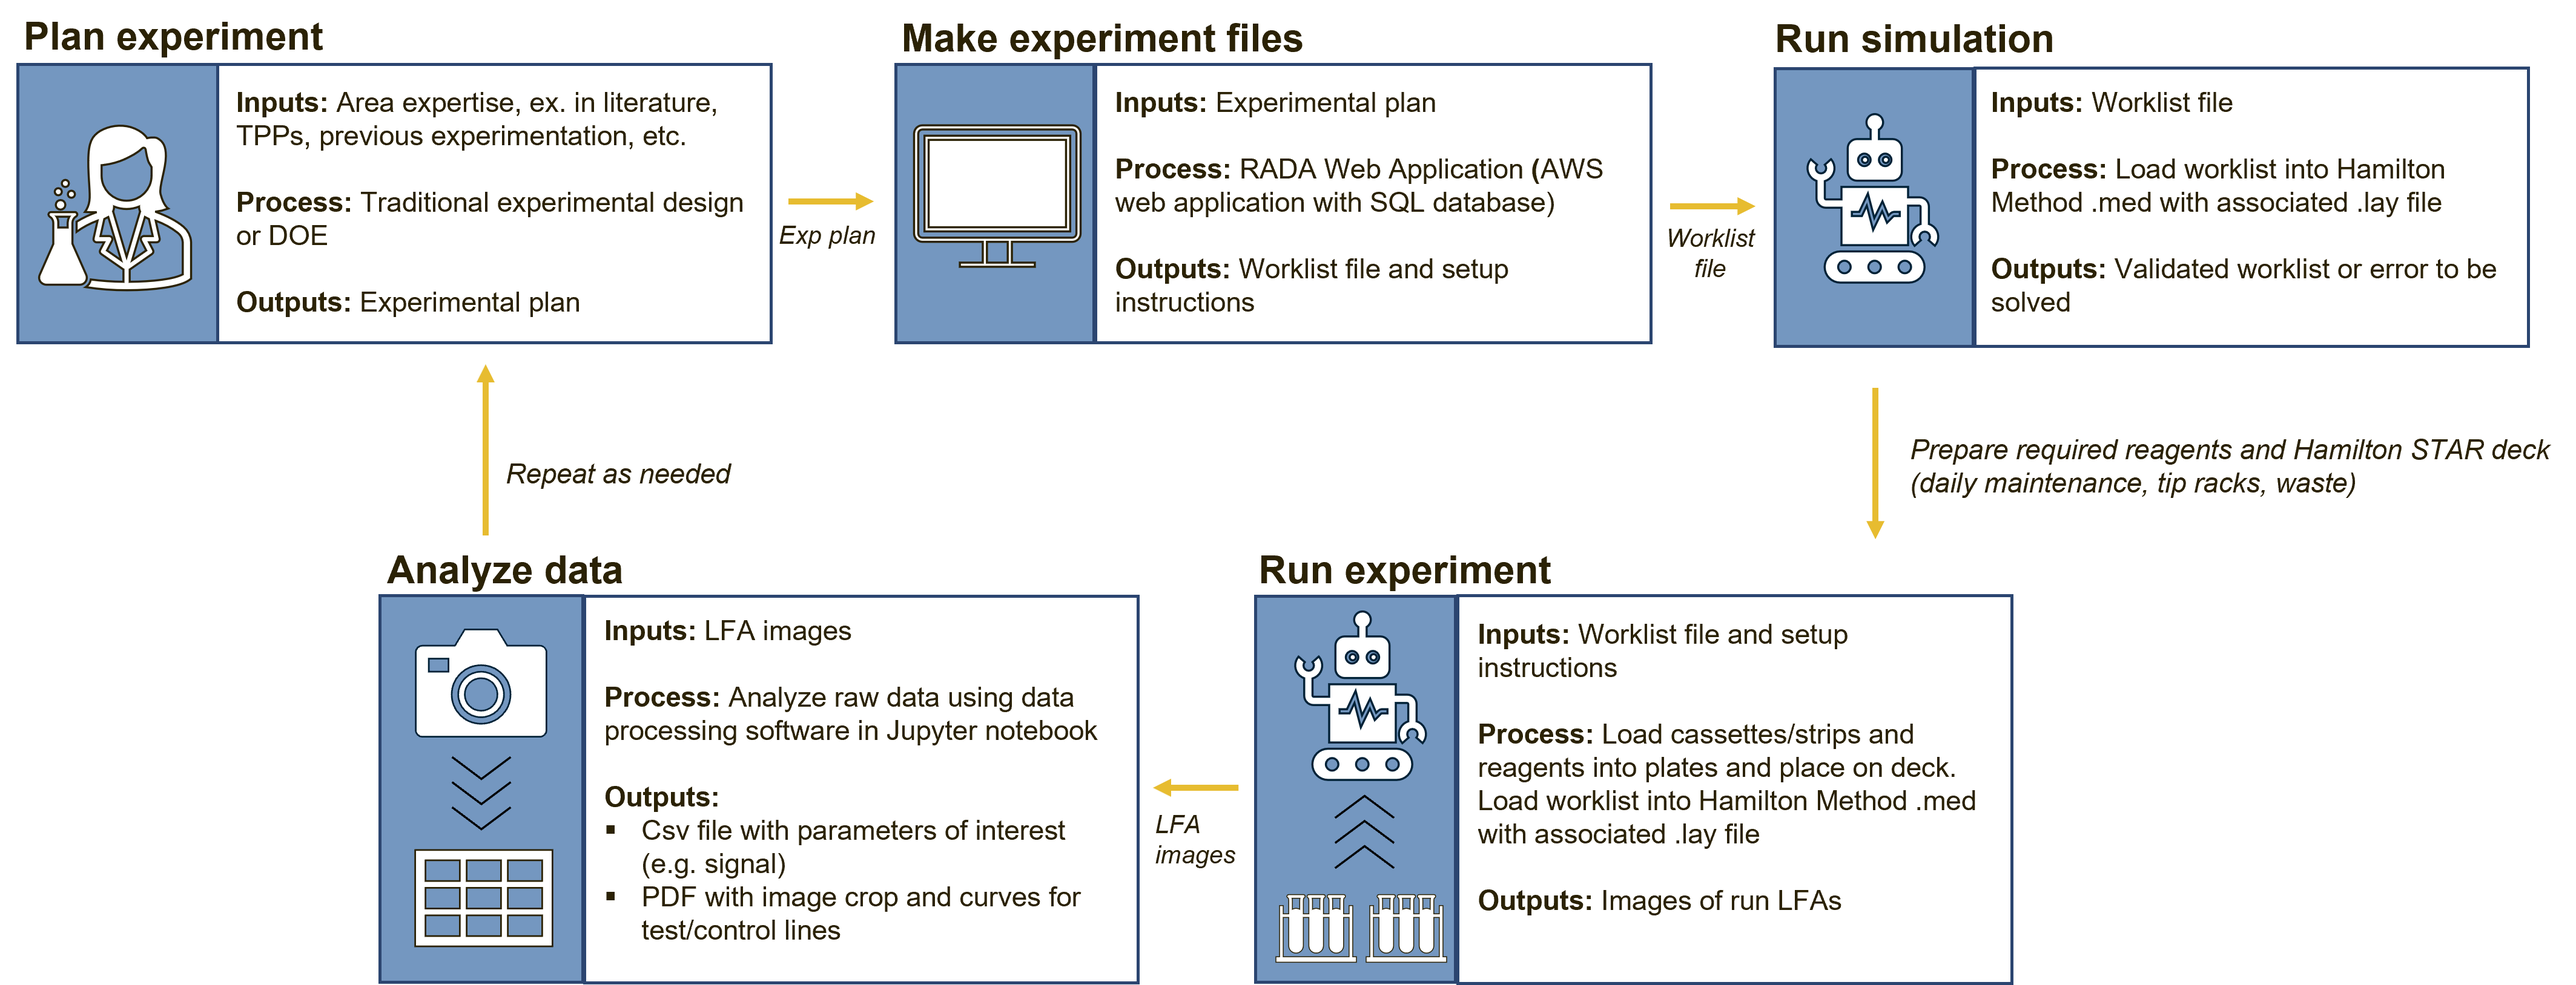
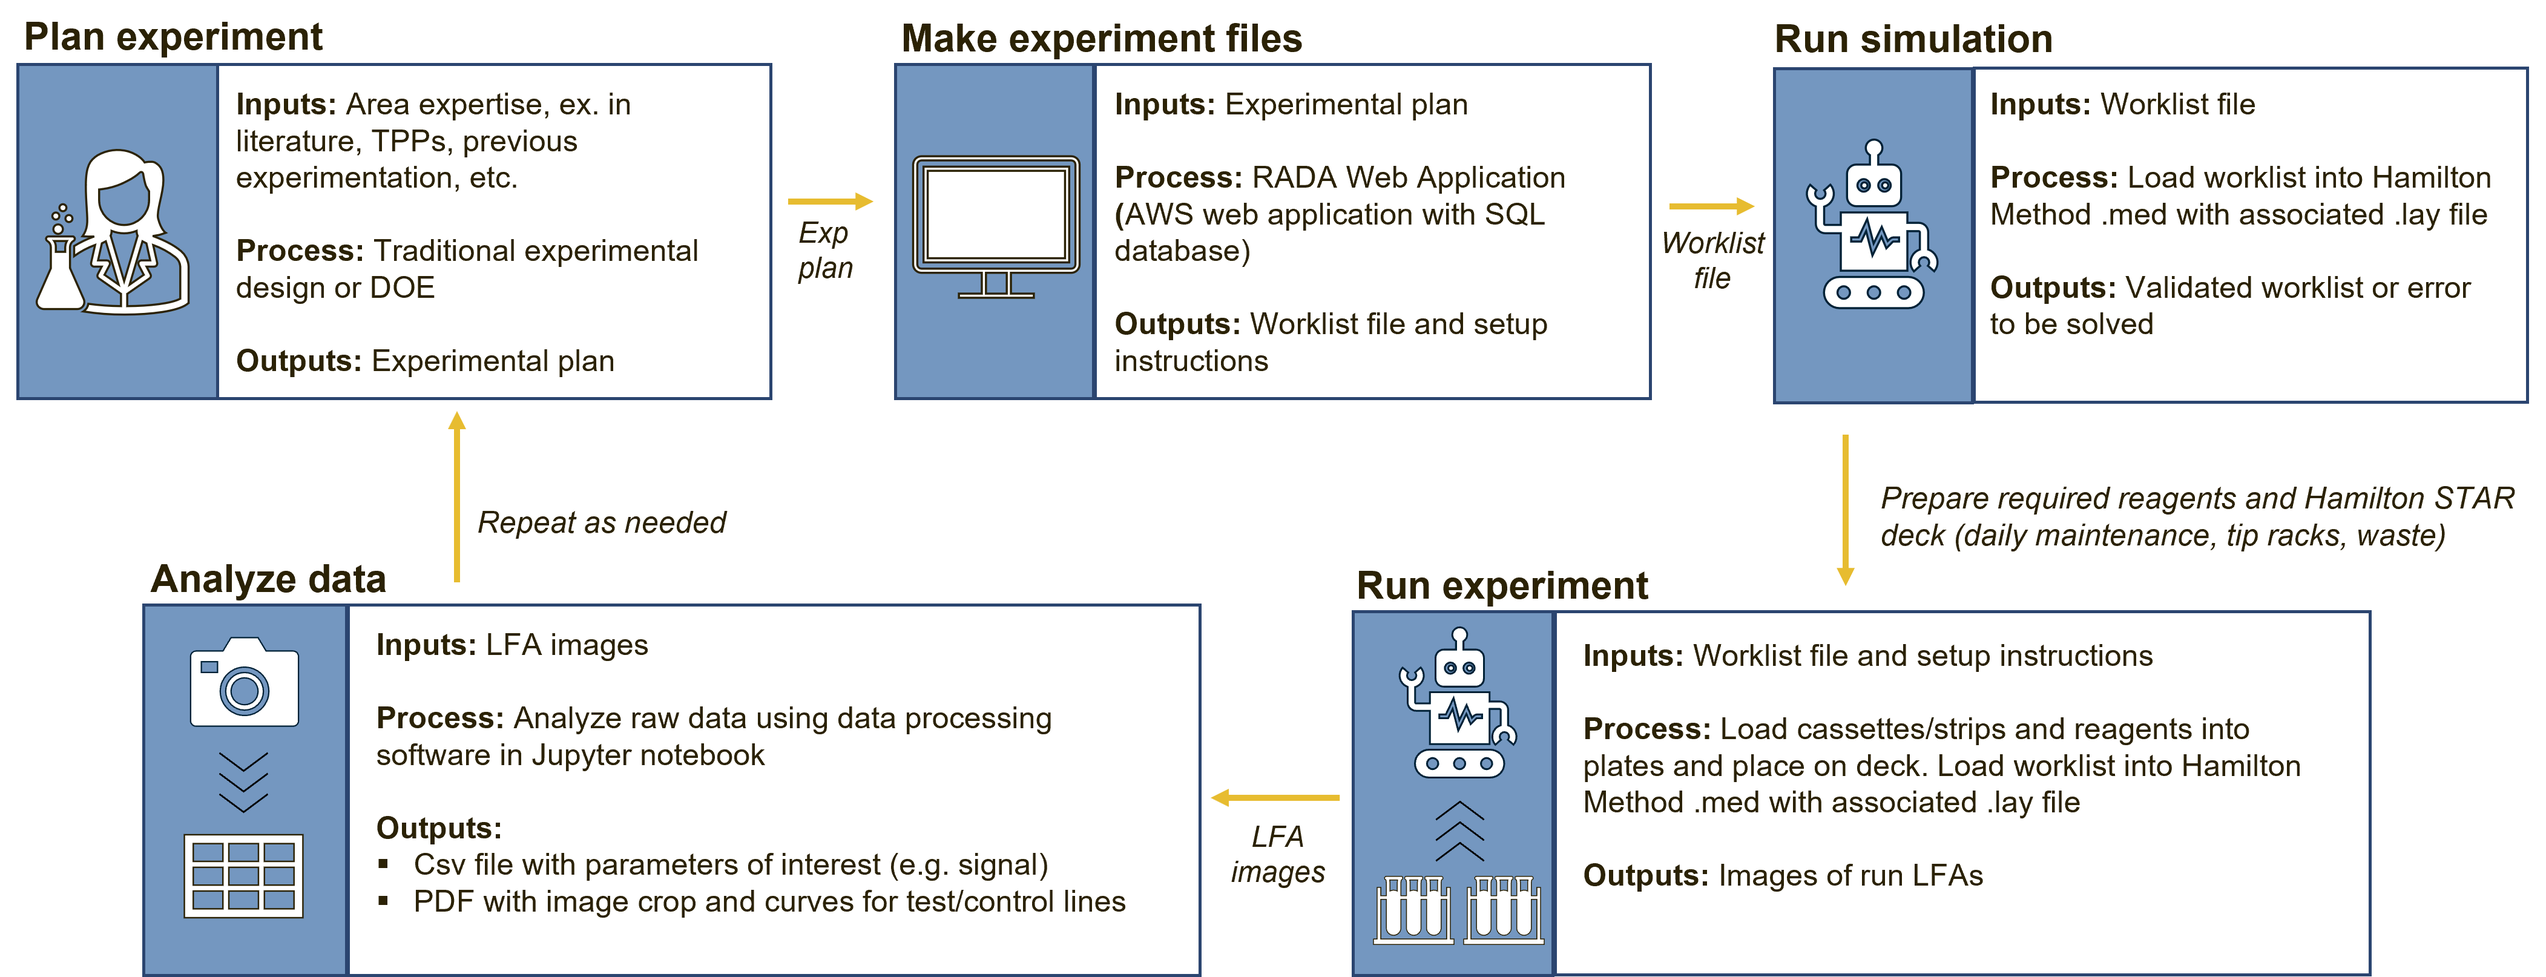
Links to worklists and  flowcharts updated

diff --git a/docs/NAAT/NAAT Example Efforts.md b/docs/NAAT/NAAT Example Efforts.md
@@ -44,20 +44,20 @@ Reagents required for this effort included:
 Worklists were prepared to run the experiment as designed by JMP. This effort was run using 96 well plates and prepared two at a time. The worklists for preparing the mastermix and aliquoting sample were seperated to enable sample preparation to occur while the mastermix is being run. This effort could be accelerated by using a 384 well plate or if there are more thermocyclers available. 
 
 *Run 1*
-:material-microsoft-excel: [Make, mix, and aliquot mastermix](./worklists/A1A_makeandmix_worklist.csv)
-:material-microsoft-excel: [Aliquot Sample](./worklists/A1A_template_aq_worklist.csv)
+:material-microsoft-excel: [Make, mix, and aliquot mastermix](https://github.com/Global-Health-Labs/DROP/blob/main/examples/NAAT/A1A_makeandmix_worklist.csv)
+:material-microsoft-excel: [Aliquot Sample](https://github.com/Global-Health-Labs/DROP/blob/main/examples/NAAT/A1A_template_aq_worklist.csv)
 
 *Run 2*
-:material-microsoft-excel: [Make, mix, and aliquot mastermix](./worklists/A1A2_makeandmix_worklist.csv)
-:material-microsoft-excel: [Aliquot Sample](./worklists/A1A2_template_aq_worklist.csv)
+:material-microsoft-excel: [Make, mix, and aliquot mastermix](https://github.com/Global-Health-Labs/DROP/blob/main/examples/NAAT/A1A2_makeandmix_worklist.csv)
+:material-microsoft-excel: [Aliquot Sample](https://github.com/Global-Health-Labs/DROP/blob/main/examples/NAAT/A1A2_template_aq_worklist.csv)
 
 *Run 3*
-:material-microsoft-excel: [Make, mix, and aliquot mastermix](./worklists/A1A3_makeandmix_worklist.csv)
-:material-microsoft-excel: [Aliquot Sample](./worklists/A1A3_template_aq_worklist.csv)
+:material-microsoft-excel: [Make, mix, and aliquot mastermix](https://github.com/Global-Health-Labs/DROP/blob/main/examples/NAAT/A1A3_makeandmix_worklist.csv)
+:material-microsoft-excel: [Aliquot Sample](https://github.com/Global-Health-Labs/DROP/blob/main/examples/NAAT/A1A3_template_aq_worklist.csv)
 
 *Run 4*
-:material-microsoft-excel: [Make, mix, and aliquot mastermix](./worklists/A1A4_makeandmix_worklist.csv)
-:material-microsoft-excel: [Aliquot Sample](./worklists/A1A4_template_aq_worklist.csv)
+:material-microsoft-excel: [Make, mix, and aliquot mastermix](https://github.com/Global-Health-Labs/DROP/blob/main/examples/NAAT/A1A4_makeandmix_worklist.csv)
+:material-microsoft-excel: [Aliquot Sample](https://github.com/Global-Health-Labs/DROP/blob/main/examples/NAAT/A1A4_template_aq_worklist.csv)
 
 For all four of these runs, they have similar deck layouts. Examples of the wells and plates used for both worklist types are in the images below. 
 
@@ -133,12 +133,12 @@ In addition to the reagent preparation described in the previous effort, a long 
 The additive screening was split into three robot runs, preparing two 96 well plates each run. Examples of the worklists are included below for the first two runs. 
 
 *Run 1*
-:material-microsoft-excel: [Make, mix, and aliquot mastermix](./worklists/2a_makeandmix_worklist.csv)
-:material-microsoft-excel: [Aliquot Sample](./worklists/2a_template_aq_worklist.csv)
+:material-microsoft-excel: [Make, mix, and aliquot mastermix](https://github.com/Global-Health-Labs/DROP/blob/main/examples/NAAT/2a_makeandmix_worklist.csv)
+:material-microsoft-excel: [Aliquot Sample](https://github.com/Global-Health-Labs/DROP/blob/main/examples/NAAT/2a_template_aq_worklist.csv)
 
 *Run 2*
-:material-microsoft-excel: [Make, mix, and aliquot mastermix](./worklists/2b_makeandmix_worklist.csv)
-:material-microsoft-excel: [Aliquot Sample](./worklists/2b_half_template_aq_worklist.csv)
+:material-microsoft-excel: [Make, mix, and aliquot mastermix](https://github.com/Global-Health-Labs/DROP/blob/main/examples/NAAT/2b_makeandmix_worklist.csv)
+:material-microsoft-excel: [Aliquot Sample](https://github.com/Global-Health-Labs/DROP/blob/main/examples/NAAT/2b_half_template_aq_worklist.csv)
 
 ### Results and Conclusions
 
@@ -188,8 +188,8 @@ This effort used the same reagents as the mastermix optimization and additive sc
 
 The performance evaluation was completed with a single robot run. 
 
-:material-microsoft-excel: [Make, mix, and aliquot mastermix](./worklists/NAAT_LOD_makeandmix_worklist.csv)
-:material-microsoft-excel: [Aliquot Sample](./worklists/NAAT_LOD_template_aq_worklist.csv)
+:material-microsoft-excel: [Make, mix, and aliquot mastermix](https://github.com/Global-Health-Labs/DROP/blob/main/examples/NAAT/NAAT_LOD_makeandmix_worklist.csv)
+:material-microsoft-excel: [Aliquot Sample](https://github.com/Global-Health-Labs/DROP/blob/main/examples/NAAT/NAAT_LOD_template_aq_worklist.csv)
 
 ### Results and Conclusions
 

diff --git a/docs/Installation Instructions.md b/docs/Installation Instructions.md
@@ -10,17 +10,17 @@
 ## Files required for installation 
 
 - DROP Method and Layout Files 
-    - :material-folder-download: [DROP LFA Package File (contains Method and Layout file)](./Installation%20Files/DROP_NAAT_v2.pkg)
-    - :material-folder-download: [DROP LFA Package File (contains Method and Layout file)](./Installation%20Files/DROP_LFA_v2.pkg)
-- :material-folder-download: [DROP Liquid Classes](./Installation%20Files/DROP_Liquid_Classes.mdb) 
+    - :material-folder-download: [DROP LFA Package File (contains Method and Layout file)](https://github.com/Global-Health-Labs/DROP/blob/main/sw/Hamilton%20Files/DROP_NAAT_v2.pkg)
+    - :material-folder-download: [DROP LFA Package File (contains Method and Layout file)](https://github.com/Global-Health-Labs/DROP/blob/main/sw/Hamilton%20Files/DROP_LFA_v2.pkg)
+- :material-folder-download: [DROP Liquid Classes](https://github.com/Global-Health-Labs/DROP/blob/main/sw/Hamilton%20Files/DROP_Liquid_Classes.mdb) 
 - Test Worklists 
-    - :fontawesome-solid-file-csv: [Test Mastermix Worklist](./Installation%20Files/Test_mastermix_worklist.csv) 
-    - :fontawesome-solid-file-csv: [Test sample worklist](./Installation%20Files/Test_sample_worklist.csv)
-    - :fontawesome-solid-file-csv: [Test LFA cartridge worklist](./Installation%20Files/Test_LFA_cassette_worklist.csv) 
-    - :fontawesome-solid-file-csv: [Test LFA strip worklist](./Installation%20Files/Test_LFA_strip_worklist.csv)
+    - :fontawesome-solid-file-csv: [Test Mastermix Worklist](https://github.com/Global-Health-Labs/DROP/blob/main/examples/Test%20Worklists/Test_mastermix_worklist.csv) 
+    - :fontawesome-solid-file-csv: [Test sample worklist](https://github.com/Global-Health-Labs/DROP/blob/main/examples/Test%20Worklists/Test_sample_worklist.csv)
+    - :fontawesome-solid-file-csv: [Test LFA cartridge worklist](https://github.com/Global-Health-Labs/DROP/blob/main/examples/Test%20Worklists/Test_LFA_cassette_worklist.csv) 
+    - :fontawesome-solid-file-csv: [Test LFA strip worklist](https://github.com/Global-Health-Labs/DROP/blob/main/examples/Test%20Worklists/Test_LFA_strip_worklist.csv)
 - Support packages
-    - :material-folder-download: [Shortcuts Import](./Installation%20Files/VENUS-Export.zip)
-    - :material-folder-download: [EasyPickII Library](./Installation%20Files/easyPickIIApplication.zip)
+    - :material-folder-download: [Shortcuts Import](https://github.com/Global-Health-Labs/DROP/blob/main/sw/Hamilton%20Files/VENUS-Export.zip)
+    - :material-folder-download: [EasyPickII Library](https://github.com/Global-Health-Labs/DROP/tree/main/sw/Hamilton%20Files/easyPickIIApplication)
 
 ## VENUS installation
 1.	Download VENUS onto local machine. Also download the following supporting files that are required as described above.

diff --git a/docs/LFA/LFA Example Efforts.md b/docs/LFA/LFA Example Efforts.md
@@ -24,8 +24,8 @@ Test membranes were prepared using a generic LFA format. This included CN95 nitr
 
 To break up the 10x10 grid, there are two different worklists required. The worklists are: 
 
-:fontawesome-solid-file-csv: [Worklist A](./protocols/5x3_full_worklist.csv): 3 detection antibodies with 5 capture antibodies (15 total combinations)
-:fontawesome-solid-file-csv: [Worklist B](./protocols/15x1_full_worklist.csv): 1 detection antibody with 15 capture antibodies (15 total combinations)
+:fontawesome-solid-file-csv: [Worklist A](https://github.com/Global-Health-Labs/DROP/blob/main/examples/LFA/5x3_full_worklist.csv): 3 detection antibodies with 5 capture antibodies (15 total combinations)
+:fontawesome-solid-file-csv: [Worklist B](https://github.com/Global-Health-Labs/DROP/blob/main/examples/LFA/15x1_full_worklist.csv): 1 detection antibody with 15 capture antibodies (15 total combinations)
 
 The breakdown of how these worklists will span the 10x10 grid are shown in Figure 1. 
 

diff --git a/docs/NAAT/Thermocycler Analysis.md b/docs/NAAT/Thermocycler Analysis.md
@@ -16,7 +16,6 @@ Jupyter Notebooks: these are the files that the operator will open to run the an
 
 - Batch Plate Analyzer.ipynb 
 - Single Plate Analyzer.ipynb
-- Partial Plate Analyzer.ipynb
 
 Python file(s): Python files that the Jupyter notebook refers to in order to analyze data. Some additional functions are present in these files beyond what is included in the Jupyter notebook file and can be updated if desired.
 
